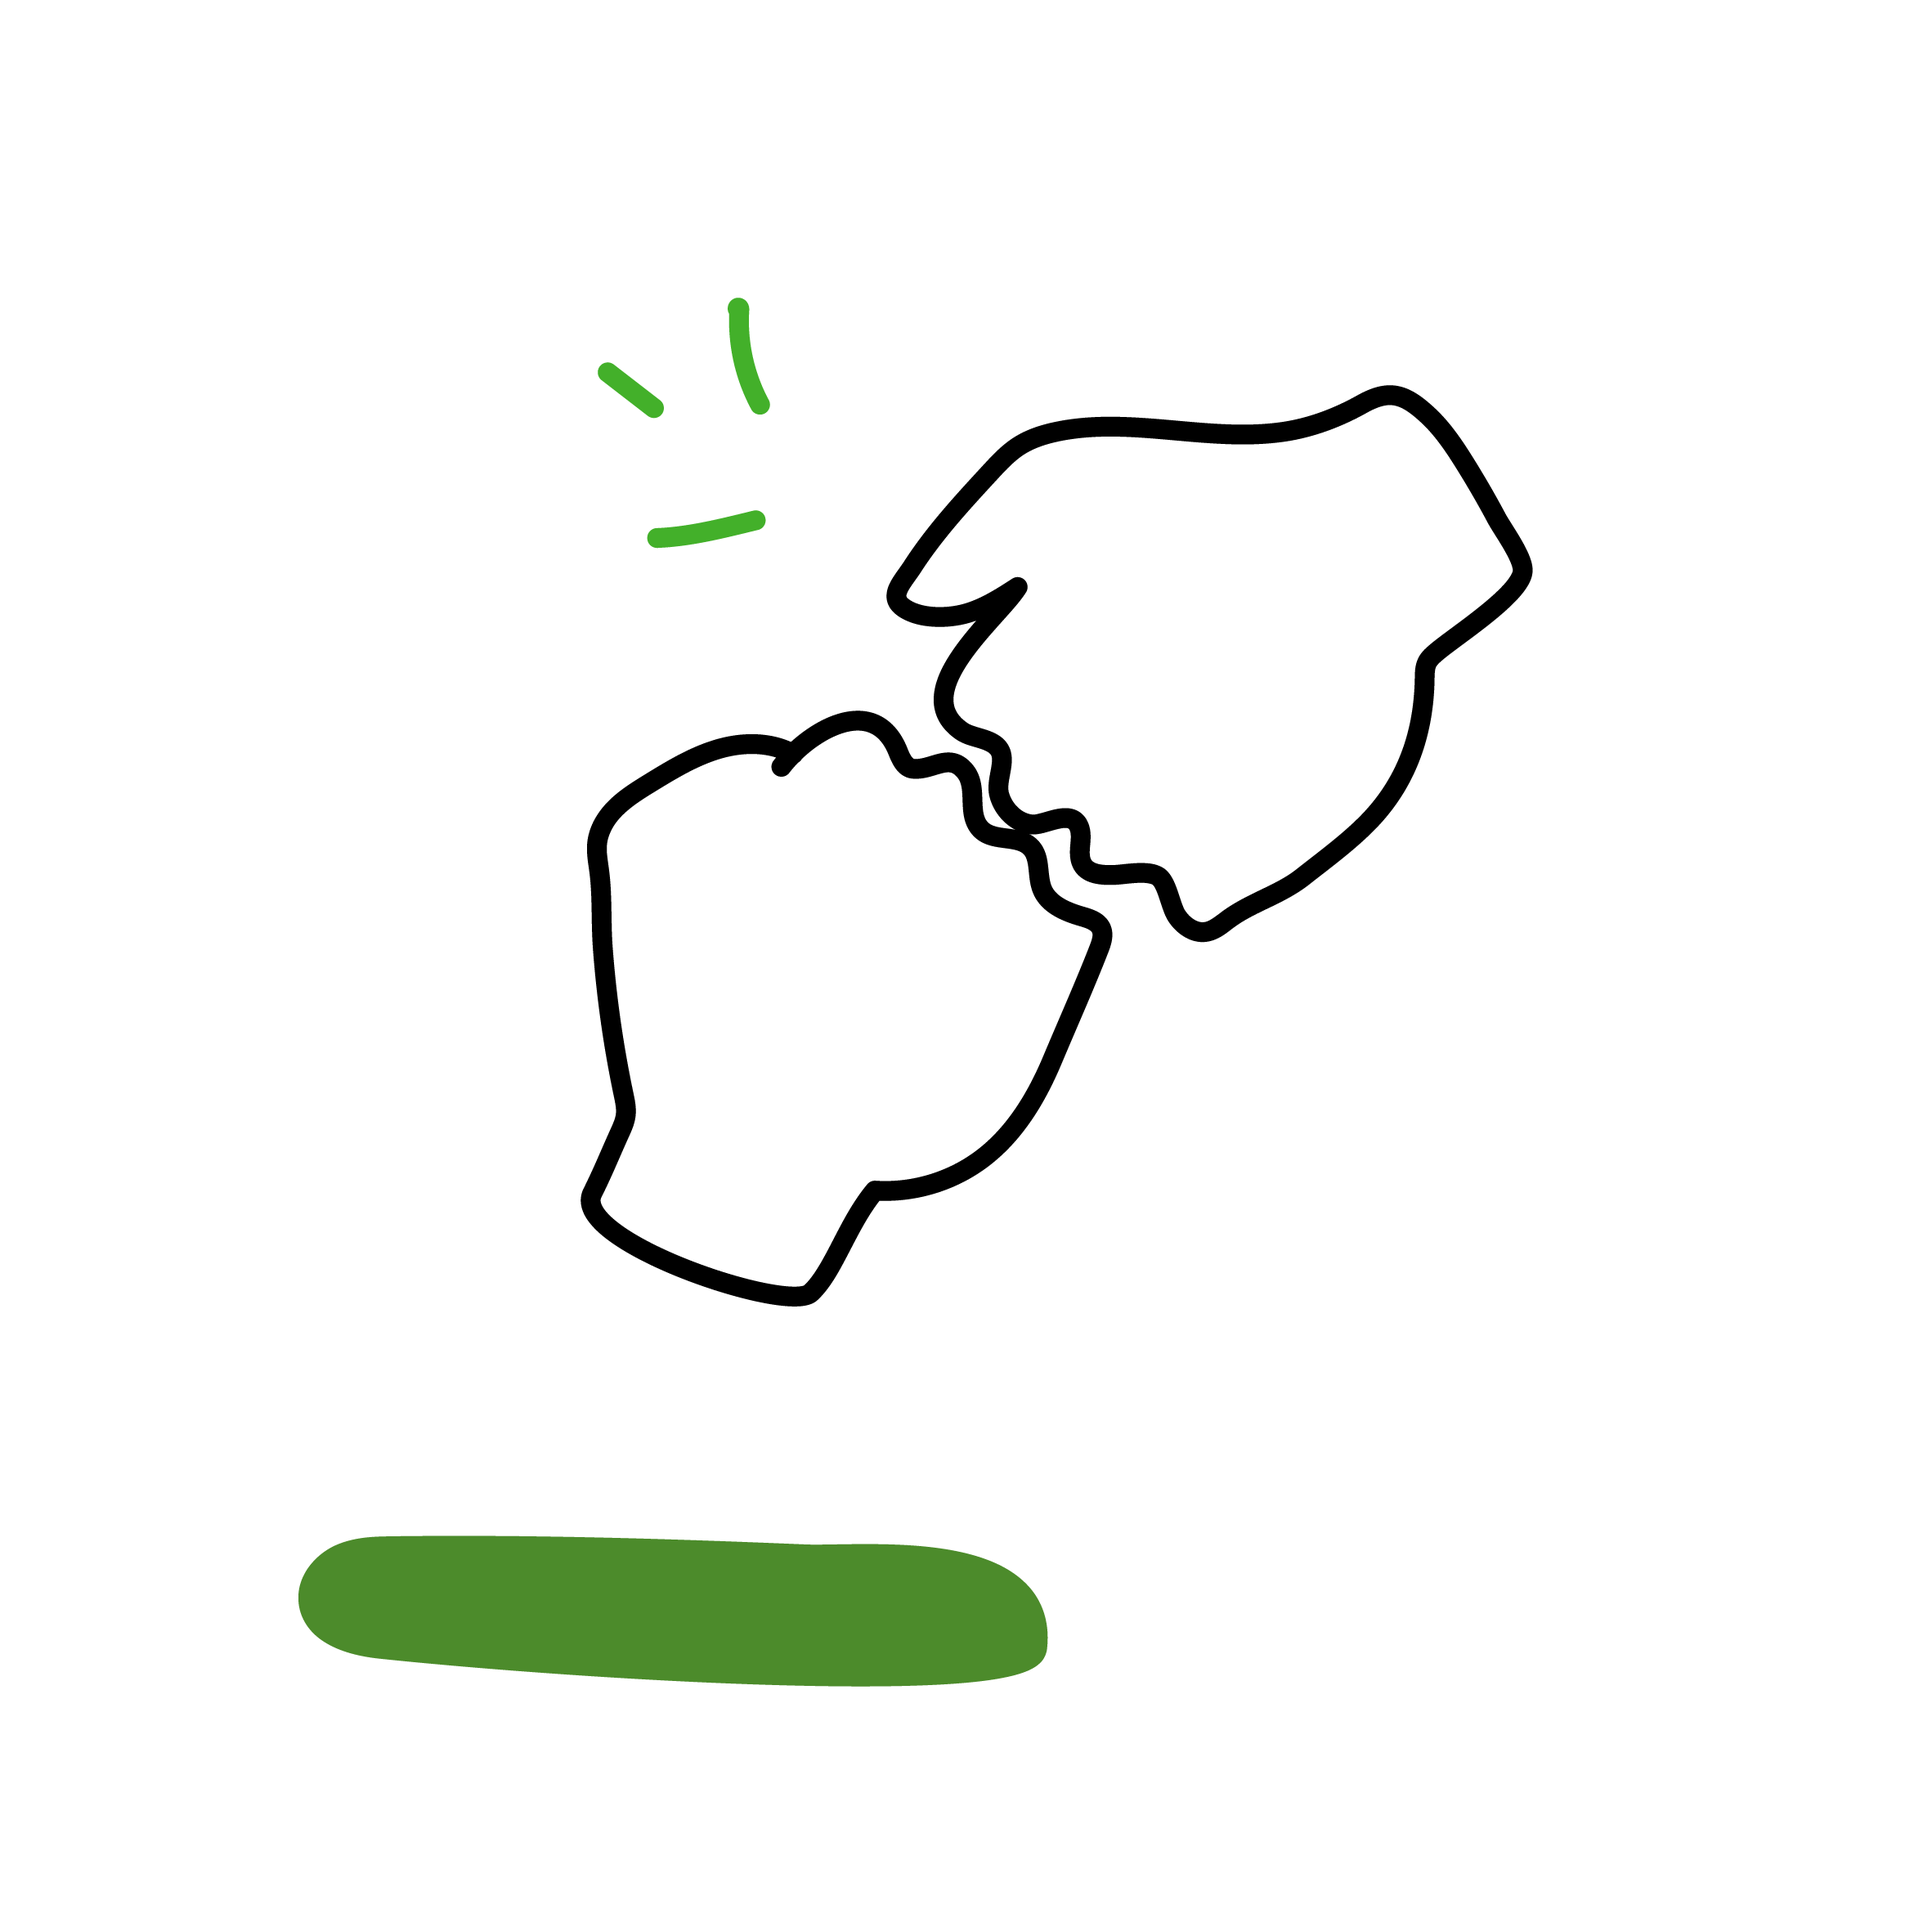
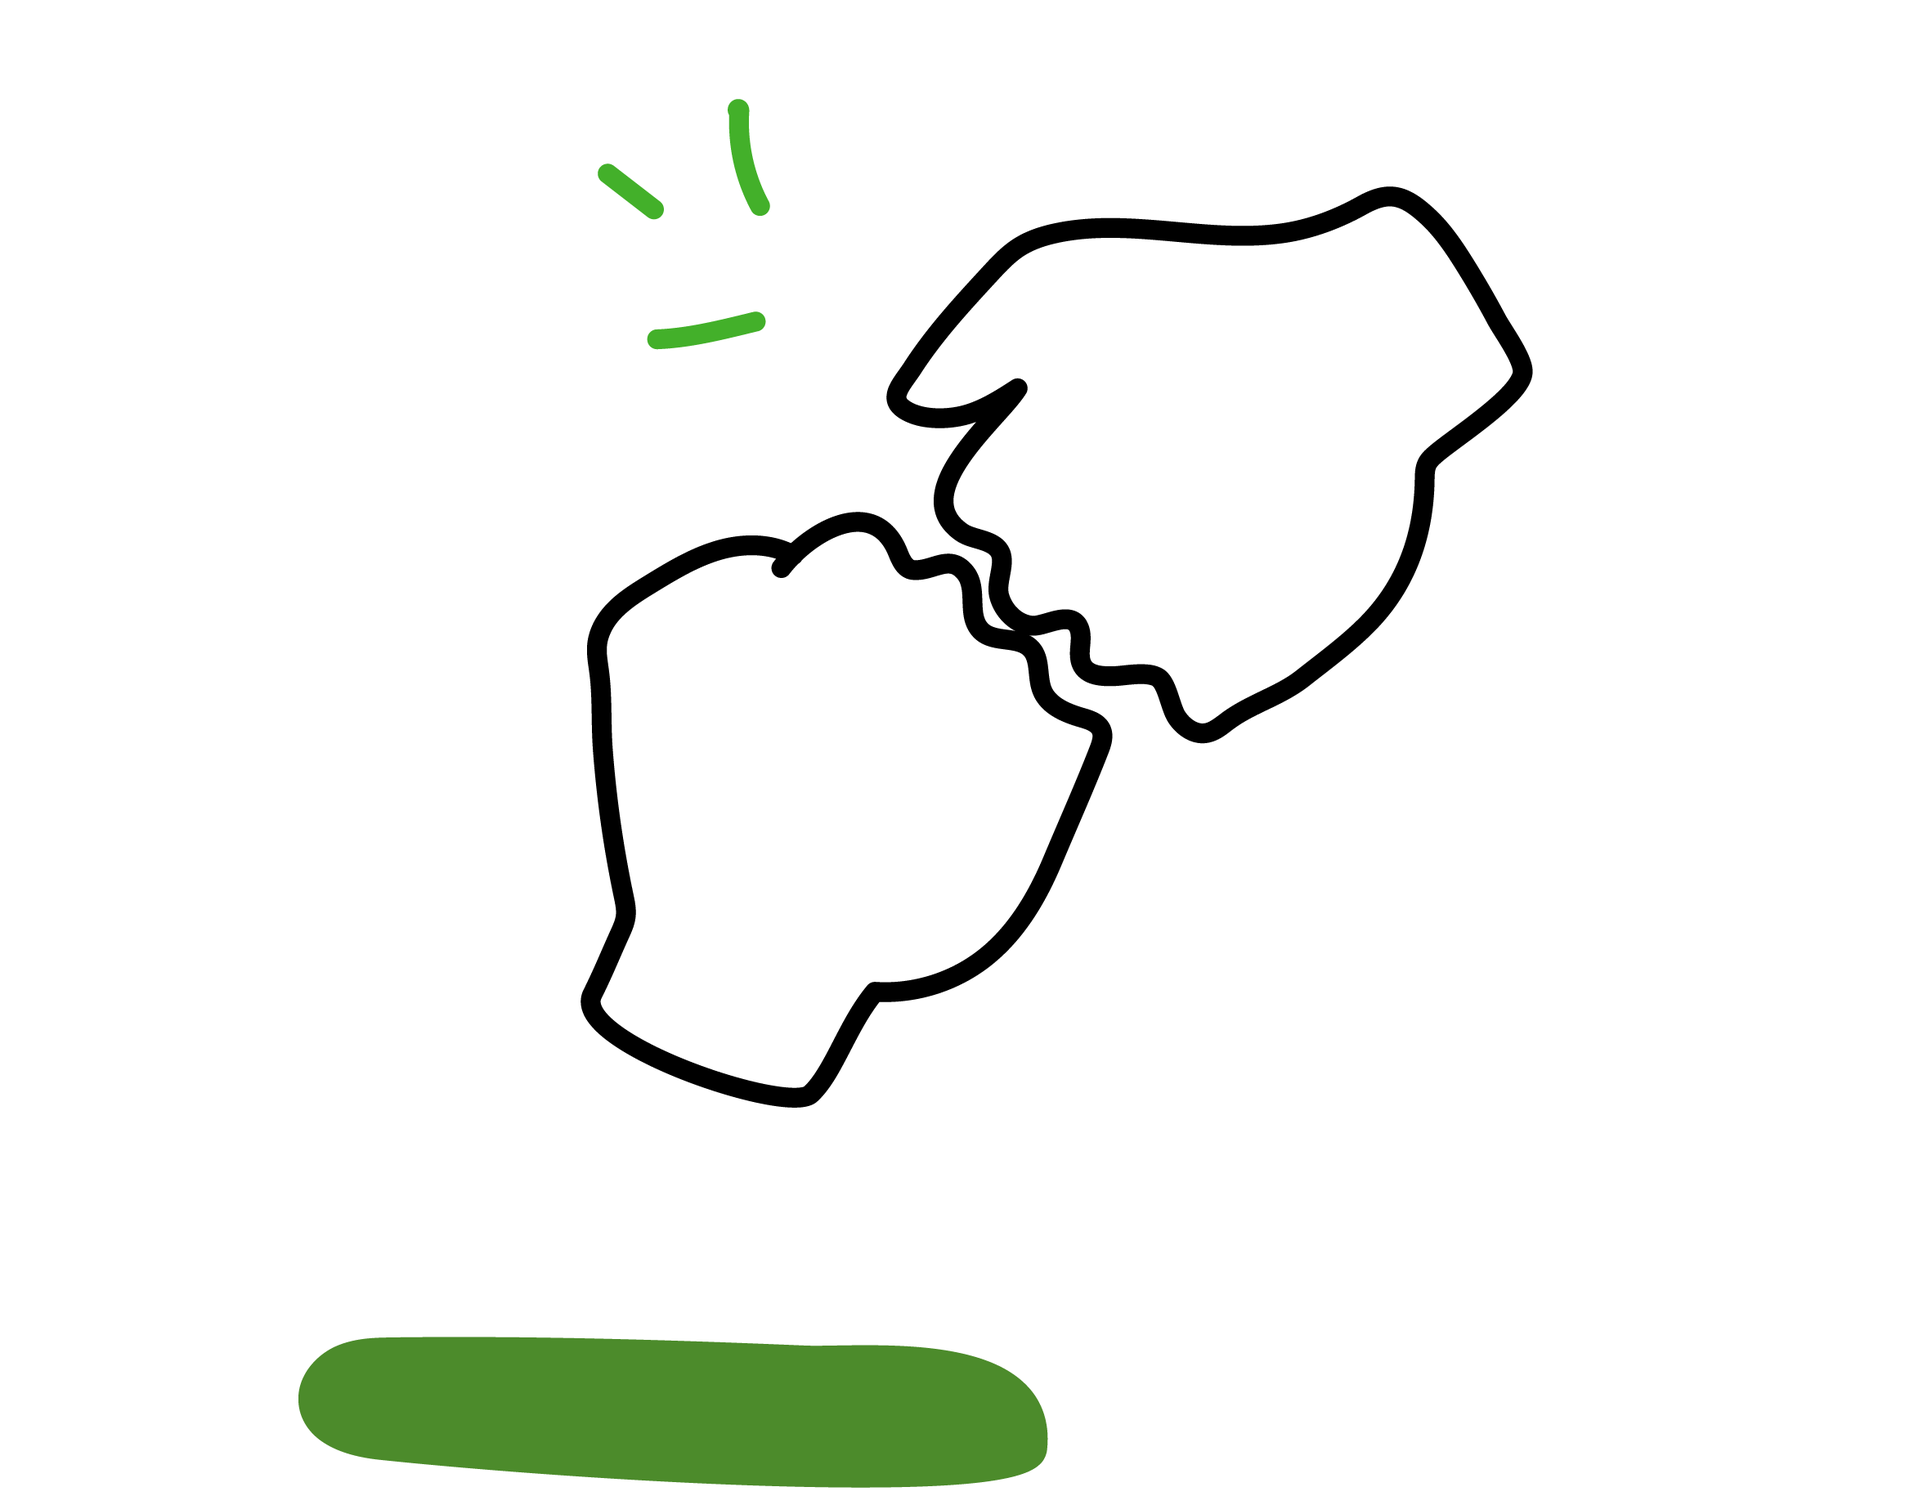
AAA

diff --git a/styles.css b/styles.css
@@ -230,15 +230,7 @@ nav.main-nav a.nav-active::after {
     padding: 0 40px 64px;
     position: relative;
   }
-  .hero-grid-bg {
-    position: absolute;
-    inset: 0;
-    background-image:
-      linear-gradient(rgba(14,14,16,0.04) 1px, transparent 1px),
-      linear-gradient(90deg, rgba(14,14,16,0.04) 1px, transparent 1px);
-    background-size: 32px 32px;
-    pointer-events: none;
-  }
+
 
   .hero-inner {
     max-width: 1280px;
@@ -583,6 +575,32 @@ nav.main-nav a.nav-active::after {
     width: 42px;
     height: 42px;
   }
+
+  .acc-card-link:nth-child(1) .acc-icon img {
+  width: 48px;
+  height: 48px;
+}
+
+  .acc-card-link:nth-child(2) .acc-icon img {
+  width: 66px;
+  height: 66px;
+}
+
+
+  .acc-card-link:nth-child(3) .acc-icon img {
+  width: 66px;
+  height: 66px;
+}
+
+  .acc-card-link:nth-child(4) .acc-icon img {
+  width: 66px;
+  height: 66px;
+}
+
+  .acc-card-link:nth-child(5) .acc-icon img {
+  width: 66px;
+  height: 66px;
+}
 
   .acc-title {
     font-family: 'Ubuntu', sans-serif;
@@ -1023,13 +1041,6 @@ nav.main-nav a.nav-active::after {
   object-fit: contain;
 }
 
-/* Icônes cards accompagnement */
-.acc-icon img {
-  width: 42px;
-  height: 42px;
-  object-fit: contain;
-}
-
 /* ===== PAGE ACCOMPAGNEMENT ===== */
 
 /* Masquer le alert-bar sur les pages non-accueil */
@@ -1114,7 +1125,7 @@ nav.main-nav a.nav-active::after {
   color: rgba(227, 224, 224, 0.943); ;
   max-width: 580px;
   line-height: 1.55;
-  margin-bottom: 112px;
+  margin-bottom: 62px;
 }
 
 .timeline-nav {

diff --git a/index.html b/index.html
@@ -32,10 +32,10 @@
     <span></span><span></span><span></span>
   </button>
   <div class="mobile-menu" id="mobile-menu">
-    <a href="#">Notre accompagnement</a>
+    <a href="accompagnement.html">Notre accompagnement</a>
     <a href="#">Inspirations & Réalisations</a>
     <a href="#">Agencement</a>
-    <a href="#contact" onclick="document.getElementById('mobile-menu').classList.remove('open'); document.querySelector('.burger').classList.remove('open')">Contact</a>
+    <a href="#contact">Contact</a>
   </div>
 </header>
 
